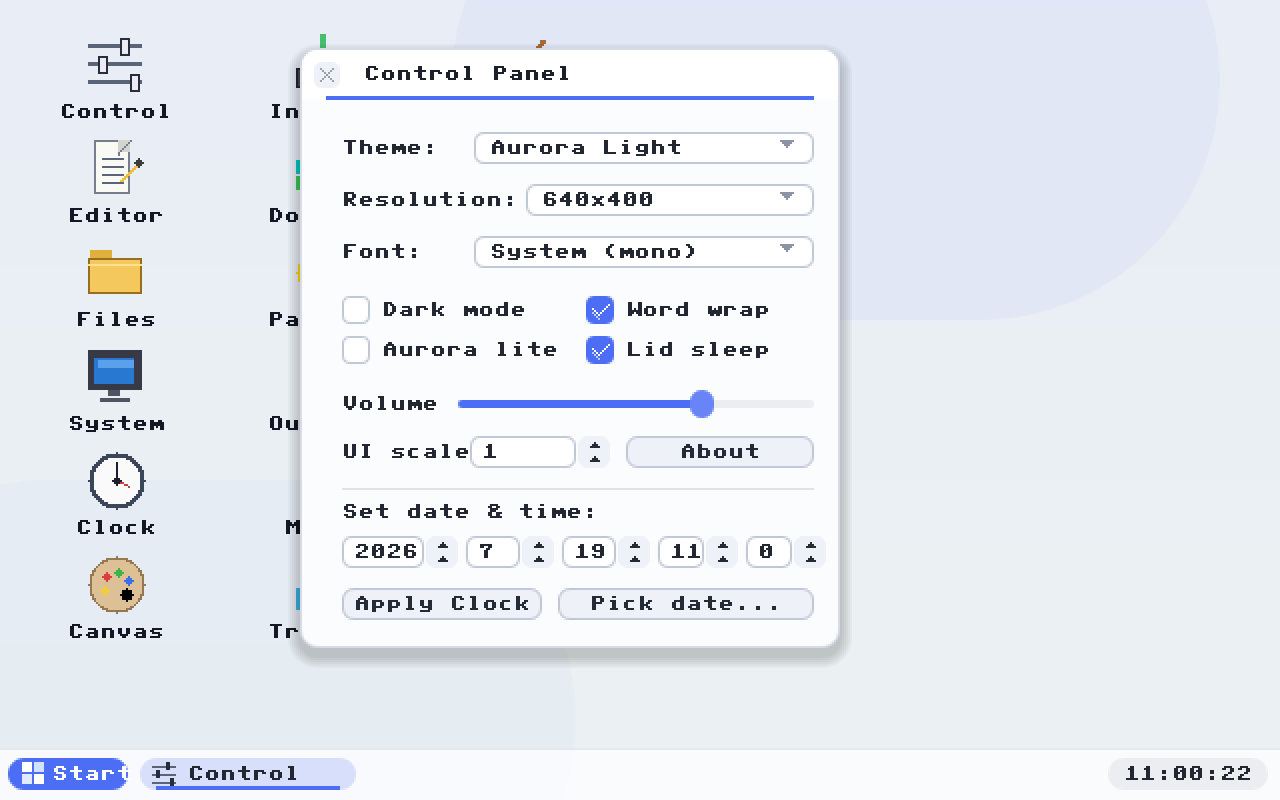
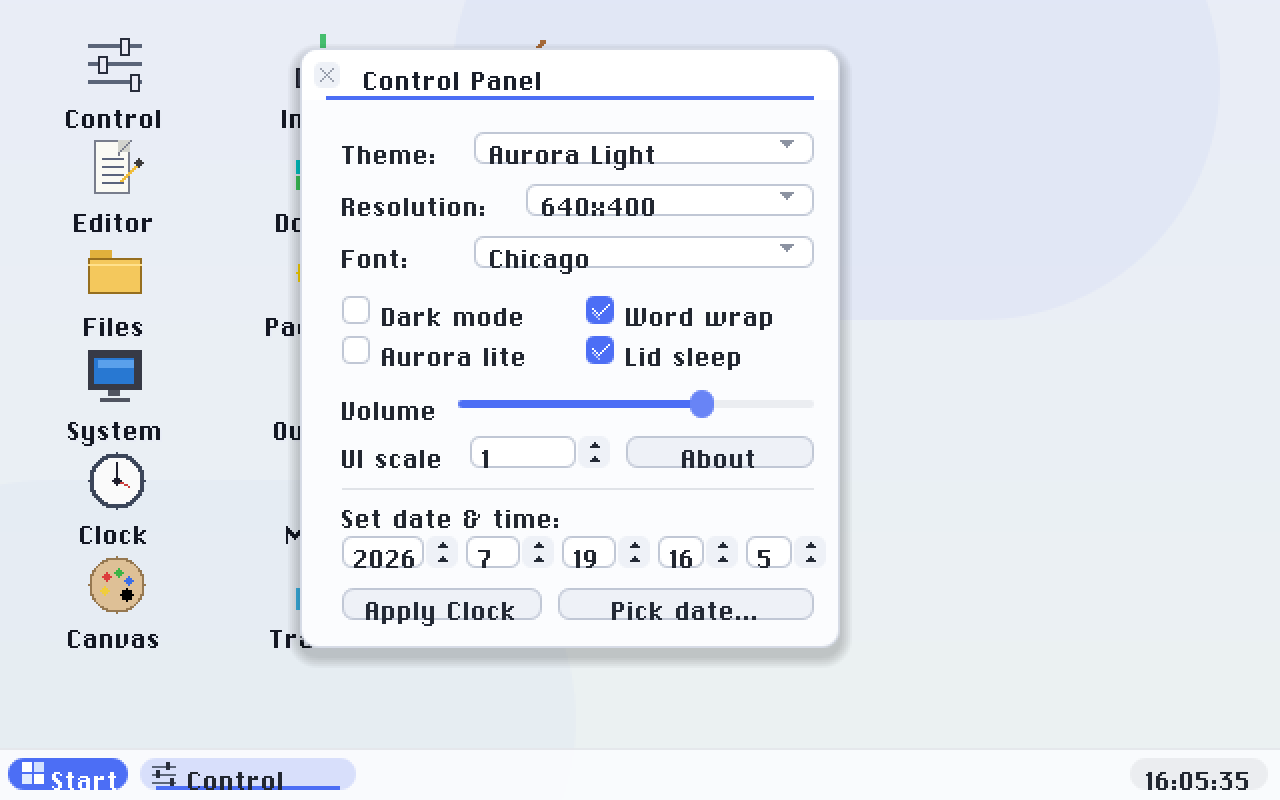
pc64: bundle ChiKareGo2 (Chicago-style) TTF and make it the default UI font
The default UI face is now a bundled TrueType instead of the built-in 8x8
bitmap. Uses ChiKareGo 2 by Giles Booth (CC BY) - a free-culture homage to
Apple's Chicago (Apple's own Chicago is proprietary and NOT bundled).

- fonts/ChiKareGo2.ttf (21 KB, CC BY, from the author's BitFontMaker2) ->
  ESP as CHICAGO.TTF; fonts/README.md carries the attribution.
- pc64_font.c: fslot gains a native-px field. A bitmap face (px>0) renders
  at that exact size with AA OFF so its pixels land 1:1 and stay crisp;
  outline faces (DejaVu/Ubuntu, px=0) keep the UI px + subpixel AA. cur_px()
  /cur_sub() gate this per active font. ChiKareGo2 is slot 0, px=15 (its
  1024-unit em is a 16px grid -> ascent 12 + descent 3 = 15px = 1:1).
- Shell defaults to slot 0 (uno_font_use(0)); falls back to the 8x8 bitmap
  if the TTF is missing. Control Panel picker shows it as 'Chicago'.
- Installer copies CHICAGO.TTF so installed systems get the default face.

QEMU-verified: the whole desktop renders in crisp Chicago pixels, picker
selects 'Chicago'. Outline faces unaffected (same AA path as before).

diff --git a/pc64/pc64_font.c b/pc64/pc64_font.c
@@ -60,14 +60,20 @@ static void *fa_alloc(long n){ n = (n + 15) & ~15L;
 #include "stb_truetype.h"
 
 /* ---- font slots ---------------------------------------------------------- */
-#define NSLOT 3
+#define NSLOT 4
 #define FONT_BUF (1200 * 1024)
 static unsigned char g_data[NSLOT][FONT_BUF];
-typedef struct { int loaded; stbtt_fontinfo info; long len; const char *name, *file; } fslot;
+/* px: native pixel height of a bitmap-derived face (rendered at that exact
+ * size with AA off, so its pixels land 1:1 and stay crisp); 0 = a scalable
+ * outline face (rendered at the UI px with anti-aliasing). */
+typedef struct { int loaded; stbtt_fontinfo info; long len; const char *name, *file; int px; } fslot;
 static fslot g_fonts[NSLOT] = {
-    { 0, {0}, 0, "Sans",   "SANS.TTF"   },
-    { 0, {0}, 0, "Mono",   "MONO.TTF"   },
-    { 0, {0}, 0, "Ubuntu", "UBUNTU.TTF" },
+    /* ChiKareGo2 (Giles Booth, CC BY) - a Chicago-style bitmap face; its 1024-
+     * unit em is a 16px grid (64 u/px), so px 15 = ascent(12)+descent(3) = 1:1. */
+    { 0, {0}, 0, "Chicago", "CHICAGO.TTF", 15 },
+    { 0, {0}, 0, "Sans",    "SANS.TTF",    0  },
+    { 0, {0}, 0, "Mono",    "MONO.TTF",    0  },
+    { 0, {0}, 0, "Ubuntu",  "UBUNTU.TTF",  0  },
 };
 
 static int font_read(const char *name, unsigned char *buf, long max)
@@ -115,12 +121,18 @@ static gcache g_cache[GC_COUNT];
 static int g_active = -1, g_px = 13, g_sub = 1;
 static int g_baseline, g_cellh, g_space;
 
+/* effective per-active-font settings: a bitmap face (px>0) renders at its own
+ * native px with AA off (crisp 1:1 pixels); an outline face uses the UI px and
+ * the user's subpixel-AA preference. */
+static int cur_px(void)  { int p = g_active >= 0 ? g_fonts[g_active].px : 0; return p > 0 ? p : g_px; }
+static int cur_sub(void) { return g_sub && (g_active < 0 || g_fonts[g_active].px == 0); }
+
 static void invalidate(void){ int i; for (i = 0; i < GC_COUNT; i++) g_cache[i].ready = 0; }
 
 static void set_metrics(void)
 {
     fslot *f = &g_fonts[g_active];
-    float scale = stbtt_ScaleForPixelHeight(&f->info, (float)g_px);
+    float scale = stbtt_ScaleForPixelHeight(&f->info, (float)cur_px());
     int asc, desc, gap, a, l;
     stbtt_GetFontVMetrics(&f->info, &asc, &desc, &gap);
     g_baseline = (int)(asc * scale + 0.5f);
@@ -137,7 +149,7 @@ static void render_glyph(int cp)
 {
     gcache *gc = &g_cache[cp - GC_FIRST];
     fslot *f = &g_fonts[g_active];
-    float scale = stbtt_ScaleForPixelHeight(&f->info, (float)g_px);
+    float scale = stbtt_ScaleForPixelHeight(&f->info, (float)cur_px());
     int adv, lsb, x0, y0, x1, y1, w, h;
     stbtt_GetCodepointHMetrics(&f->info, cp, &adv, &lsb);
     gc->adv = (int)(adv * scale + 0.5f);
@@ -145,7 +157,7 @@ static void render_glyph(int cp)
     w = x1 - x0; h = y1 - y0;
     if (w < 0) w = 0; if (h < 0) h = 0; if (w > GMAXW) w = GMAXW; if (h > GMAXH) h = GMAXH;
     gc->w = w; gc->h = h; gc->ox = x0; gc->oy = y0;
-    if (g_sub) {
+    if (cur_sub()) {
         int bx0, by0, bx1, by1, cw3;
         stbtt_GetCodepointBitmapBox(&f->info, cp, scale * 3, scale, &bx0, &by0, &bx1, &by1);
         cw3 = bx1 - bx0; if (cw3 < 0) cw3 = 0; if (cw3 > GMAXW * 3) cw3 = GMAXW * 3;
@@ -171,7 +183,7 @@ static int draw_glyph(int x, int y, int cp, fb_px fg, long bg)
     gc = &g_cache[cp - GC_FIRST];
     if (!gc->ready) render_glyph(cp);
     if (bg >= 0) fb_fill_rect(x, y, gc->adv > 0 ? gc->adv : g_space, g_cellh, (fb_px)bg);
-    if (g_sub) {
+    if (cur_sub()) {
         int r, X, cw3 = gc->cw3, pixox = gc->ox3 / 3, base = 3 * pixox - gc->ox3;
         int wout = (cw3 - base) / 3 + 2;
         for (r = 0; r < gc->h; r++) {

diff --git a/pc64/pc64_uui.c b/pc64/pc64_uui.c
@@ -1204,9 +1204,12 @@ int main(void)
     build_launcher();                                /* opened via Start    */
     fmt_clock(0);                                    /* tray clock ready now */
     fmt_batt();                                      /* tray battery (ACPI)  */
-    uno_font_set_subpixel(1);           /* subpixel AA when a TTF is picked */
-    /* default stays the built-in 8x8 bitmap (monospace) - a safe, tested
-     * fallback; the Control Panel Font picker opts into a TTF face. */
+    uno_font_set_subpixel(1);           /* subpixel AA for the outline faces  */
+    /* Default to the bundled Chicago-style bitmap face (slot 0). It renders at
+     * its native px with AA off (crisp 1:1 pixels). If its TTF can't be loaded
+     * (e.g. missing from the ESP) uno_font_use falls back to the built-in 8x8
+     * bitmap, which the Control Panel picker ("System (mono)") also selects. */
+    uno_font_use(0);
     open_app(APP_CTRL);                 /* start with Control Panel open */
 
     memset(&tick, 0, sizeof tick); tick.kind = UI_EV_TICK;

diff --git a/pc64/installer.c b/pc64/installer.c
@@ -495,7 +495,7 @@ static int write_boot_entry(const DP_NODE *prefix, int prefix_sz, int make_defau
 static int install_esp(target *t, int make_default,
                        void (*progress)(int, const char *))
 {
-    static const char *aux[] = { "SANS.TTF", "MONO.TTF", "UBUNTU.TTF",
+    static const char *aux[] = { "CHICAGO.TTF", "SANS.TTF", "MONO.TTF", "UBUNTU.TTF",
                                  "HELLO.MD", "PAGE.HTML" };
     char dst[64]; int i; I_FILE *sroot, *droot;
     DP_NODE *dp;

diff --git a/pc64/fonts/README.md b/pc64/fonts/README.md
@@ -2,15 +2,27 @@
 
 The pc64 TrueType engine (`pc64_font.c`, built on the vendored
 `stb_truetype.h` — public domain / MIT) loads these at runtime from the ESP
-(copied to `SANS.TTF` / `MONO.TTF` / `UBUNTU.TTF` by `build.sh`). All three are
-open-licensed and redistributable:
+by `build.sh`. All are open-licensed and redistributable:
 
-| File        | Face          | License |
-|-------------|---------------|---------|
-| `Sans.ttf`  | DejaVu Sans   | Bitstream Vera / DejaVu license (permissive, redistributable) |
-| `Mono.ttf`  | DejaVu Sans Mono | same |
-| `Ubuntu.ttf`| Ubuntu        | Ubuntu Font Licence 1.0 |
+| File            | ESP name      | Face | License |
+|-----------------|---------------|------|---------|
+| `ChiKareGo2.ttf`| `CHICAGO.TTF` | ChiKareGo 2 (a Chicago-style bitmap face) by **Giles Booth** | **Creative Commons Attribution (CC BY)** — see below |
+| `Sans.ttf`      | `SANS.TTF`    | DejaVu Sans | Bitstream Vera / DejaVu (permissive) |
+| `Mono.ttf`      | `MONO.TTF`    | DejaVu Sans Mono | same |
+| `Ubuntu.ttf`    | `UBUNTU.TTF`  | Ubuntu | Ubuntu Font Licence 1.0 |
 
-These are the *optional* system/document fonts. The built-in 8×8 bitmap font
-(`font_data.h`, generated at build time) remains the default and the fallback
-if a TTF can't be loaded.
+**ChiKareGo 2 is the default UI face** (shown as "Chicago" in the Control
+Panel font picker). It's a bitmap-derived TrueType, so `pc64_font.c` renders
+it at its native 15 px with anti-aliasing off — crisp 1:1 pixels, the classic
+chunky Mac look. The outline faces (DejaVu/Ubuntu) render at the UI px with
+subpixel AA. The built-in 8×8 bitmap font (`font_data.h`) is the fallback if a
+TTF can't be loaded (also selectable as "System (mono)").
+
+## ChiKareGo 2 attribution (CC BY)
+
+ChiKareGo 2 © Giles Booth, licensed **Creative Commons Attribution** — a
+free-culture homage to Apple's *Chicago* (it is NOT Apple's Chicago, which is
+proprietary and not bundled). Source: BitFontMaker2 gallery
+<http://www.pentacom.jp/pentacom/bitfontmaker2/gallery/?id=3780>. CC BY permits
+redistribution, modification, and commercial use with attribution; this notice
+provides it.